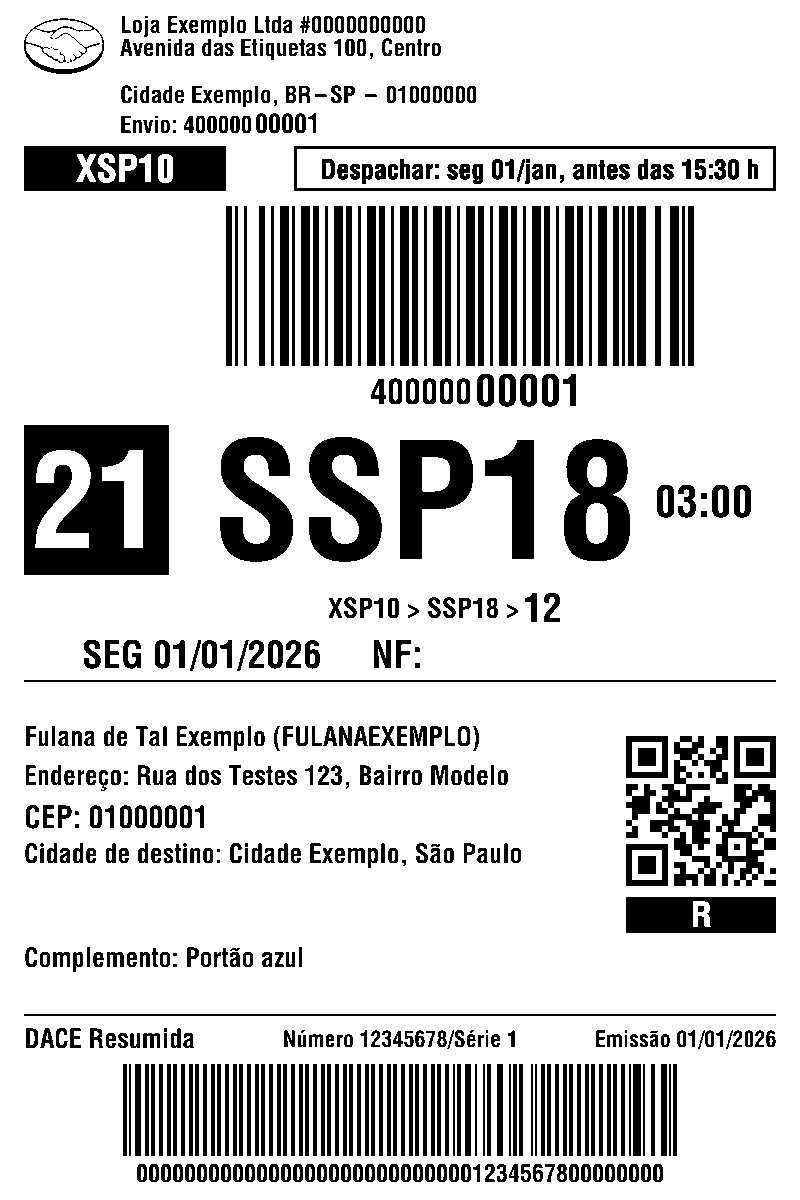
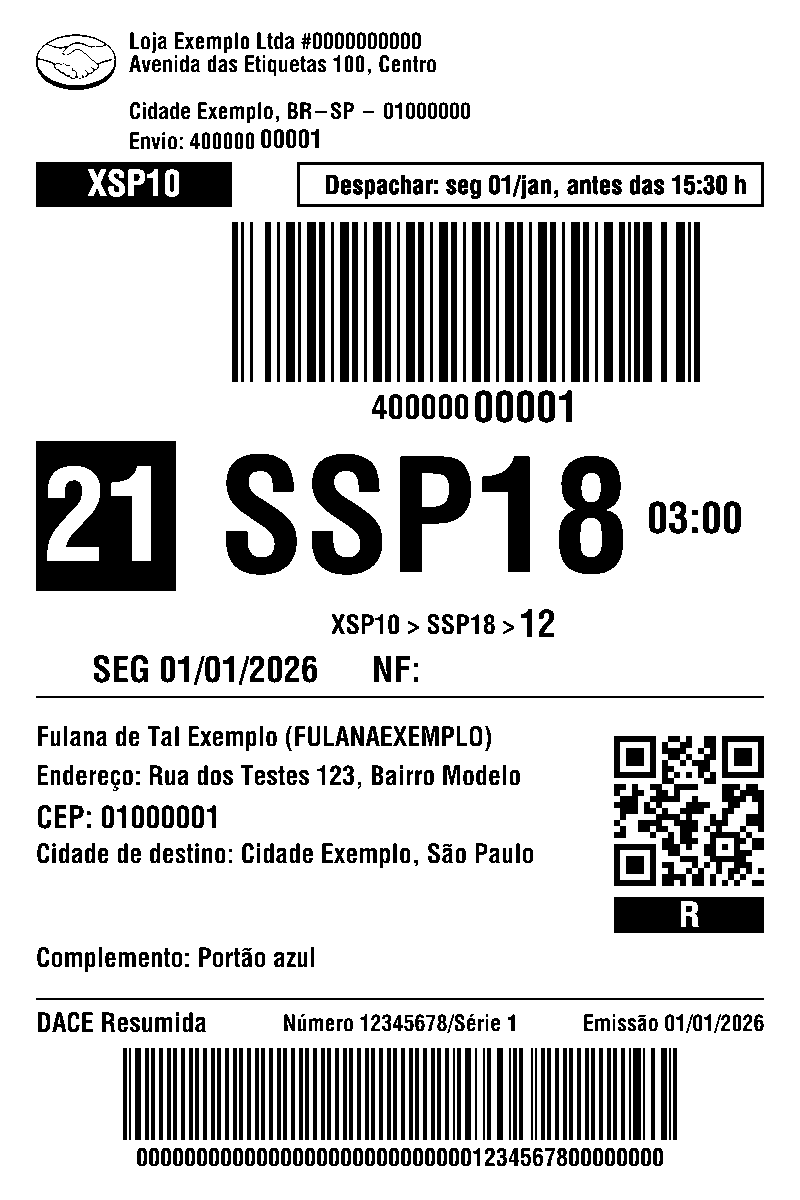
Sem duplicadas entre site e arquivo baixado, sinal de vida no Bluetooth e margens maiores
- o mesmo envio vindo do site e do arquivo em até 3 minutos imprime uma vez só
- conector reconecta sozinho se a ligação morrer parada e reenvia sem falhar o trabalho
- margens de 4,5 mm nas laterais e 4 mm em cima e embaixo

diff --git a/conector-bluetooth/main.swift b/conector-bluetooth/main.swift
@@ -37,6 +37,11 @@ final class Conector: NSObject, CBCentralManagerDelegate, CBPeripheralDelegate {
     var consultaQuando = Date.distantPast
     var jaRespondeu = false
     var contador = 0
+    var tentativas = 0
+    var canalInfo: CBCharacteristic?   // canal de leitura usado como sinal de vida
+    var pulsoPedido: Date?
+    var retomar = false                // reenviar o trabalho atual depois de reconectar
+    var jaIdentificou = false
     var consultasSemResposta = 0
     var inicioEnvio = Date()
 
@@ -96,12 +101,14 @@ final class Conector: NSObject, CBCentralManagerDelegate, CBPeripheralDelegate {
 
     func centralManager(_ c: CBCentralManager, didDisconnectPeripheral p: CBPeripheral, error: Error?) {
         registrar("a impressora desconectou; reconectando")
-        if let id = idTrabalho { confirmar(id, ok: false, erro: "a impressora desconectou no meio do envio") }
+        bomba?.invalidate(); bomba = nil
+        if let id = idTrabalho, !(retomar && tentativas < 2) { confirmar(id, ok: false, erro: "a impressora desconectou no meio do envio"); retomar = false }
         reiniciarBusca()
     }
 
     func reiniciarBusca() {
-        impressora = nil; canal = nil; ocupado = false; idTrabalho = nil; estado = nil; jaRespondeu = false
+        impressora = nil; canal = nil; canalInfo = nil; pulsoPedido = nil; estado = nil; jaRespondeu = false
+        if !retomar { ocupado = false; idTrabalho = nil }
         informar()
         DispatchQueue.main.asyncAfter(deadline: .now() + 2) { [weak self] in self?.procurar() }
     }
@@ -135,7 +142,15 @@ final class Conector: NSObject, CBCentralManagerDelegate, CBPeripheralDelegate {
             registrar("conectada em \(p.name ?? "impressora") (canal \(c.uuid.uuidString)); consultando o estado")
             consultarEstado()
             // identificação do módulo Bluetooth (modelo, versão), só para o registro
-            for ch in (p.services ?? []).flatMap({ $0.characteristics ?? [] }) where ch.properties.contains(.read) && ch.uuid.uuidString.hasPrefix("2A") { p.readValue(for: ch) }
+            let legiveis = (p.services ?? []).flatMap({ $0.characteristics ?? [] }).filter { $0.properties.contains(.read) && $0.uuid.uuidString.hasPrefix("2A") }
+            canalInfo = legiveis.first
+            if !jaIdentificou { for ch in legiveis { p.readValue(for: ch) }; DispatchQueue.main.asyncAfter(deadline: .now() + 3) { [weak self] in self?.jaIdentificou = true } }
+            // trabalho interrompido por ligação morta: manda de novo, do começo
+            if retomar, idTrabalho != nil {
+                retomar = false; tentativas += 1; posicao = 0; ultimoAvanco = Date(); inicioEnvio = Date()
+                registrar("reenviando a etiqueta depois de reconectar")
+                DispatchQueue.main.asyncAfter(deadline: .now() + 0.5) { [weak self] in self?.escrever() }
+            }
         } else {
             registrar("a impressora não mostrou canal de escrita")
             central.cancelPeripheralConnection(p)
@@ -151,7 +166,9 @@ final class Conector: NSObject, CBCentralManagerDelegate, CBPeripheralDelegate {
     }
 
     func peripheral(_ p: CBPeripheral, didUpdateValueFor ch: CBCharacteristic, error: Error?) {
+        pulsoPedido = nil // qualquer resposta prova que a ligação está viva
         guard let v = ch.value, let b = v.first else { return }
+        if ch.uuid.uuidString.hasPrefix("2A2") && jaIdentificou { return } // leitura de sinal de vida: não polui o registro
         if v.count != 1 || ch.uuid.uuidString.hasPrefix("2A2") {
             let texto = String(data: v, encoding: .utf8)?.trimmingCharacters(in: .controlCharacters) ?? ""
             registrar("resposta em \(ch.uuid.uuidString) (\(v.count) bytes): " + v.prefix(40).map { String(format: "%02x", $0) }.joined(separator: " ") + (texto.isEmpty ? "" : " = \(texto)"))
@@ -177,13 +194,25 @@ final class Conector: NSObject, CBCentralManagerDelegate, CBPeripheralDelegate {
 
     // ---------- trabalhos ----------
     func tique() {
-        // envio parado há mais de 20 s: desiste e reconecta
-        if ocupado, Date().timeIntervalSince(ultimoAvanco) > 20, let p = impressora {
-            registrar("envio travado; reiniciando a conexão")
+        // envio parado há mais de 4 s: a ligação morreu. Reconecta e manda de novo, sem falhar o trabalho
+        if idTrabalho != nil, Date().timeIntervalSince(ultimoAvanco) > 4, let p = impressora {
+            registrar("envio parado; reiniciando a conexão para mandar de novo")
+            retomar = true
             central.cancelPeripheralConnection(p)
             return
         }
         contador += 1
+        // sinal de vida a cada 10 s: depois de horas parada a ligação pode estar morta sem avisar,
+        // e a primeira etiqueta ficava esperando. Uma leitura sem resposta em 3 s força a reconexão.
+        if idTrabalho == nil, canal != nil, let p = impressora {
+            if let pedido = pulsoPedido, Date().timeIntervalSince(pedido) > 3 {
+                registrar("a impressora não respondeu ao sinal de vida; reconectando")
+                pulsoPedido = nil
+                central.cancelPeripheralConnection(p)
+                return
+            }
+            if contador % 10 == 0, pulsoPedido == nil, let ch = canalInfo { pulsoPedido = Date(); p.readValue(for: ch) }
+        }
         if contador % 3 == 0 { informar() }
         guard canal != nil, !ocupado else { return }
         if contador % 4 == 0 { consultarEstado() }
@@ -197,7 +226,7 @@ final class Conector: NSObject, CBCentralManagerDelegate, CBPeripheralDelegate {
                     self.ocupado = false
                     return
                 }
-                self.idTrabalho = id; self.dados = bytes; self.posicao = 0; self.ultimoAvanco = Date(); self.inicioEnvio = Date()
+                self.idTrabalho = id; self.dados = bytes; self.posicao = 0; self.ultimoAvanco = Date(); self.inicioEnvio = Date(); self.tentativas = 0
                 registrar("enviando etiqueta \(id) (\(bytes.count) bytes)")
                 self.escrever()
             }

diff --git a/src/impressora.js b/src/impressora.js
@@ -316,6 +316,7 @@ function cobertura(img) {
 const pedidos = []; // mais novo primeiro
 const imagens = new Map(); // jid -> imagem em memória
 const recentes = new Map(); // evita o mesmo envio duas vezes em sequência (clique duplo)
+const porNumero = new Map(); // número do envio -> por onde e quando chegou
 let seq = 0;
 
 function carimbo() {
@@ -377,6 +378,18 @@ async function receberZpl(zpl, { origem = 'manual', imprimir = cfg.imprimir === 
       continue;
     }
     recentes.set(hash, Date.now());
+    // O Mercado Livre manda a mesma etiqueta por dois caminhos ao mesmo tempo: direto para a ponte
+    // e como arquivo baixado. O texto não é idêntico (o site tira quebras de linha), então a
+    // comparação é pelo número do envio: o segundo que chegar em até 3 minutos, vindo de outro
+    // caminho, é ignorado.
+    const numero = (envio.match(/"id":"(\d+)"/) || [])[1];
+    const outro = numero && porNumero.get(numero);
+    if (outro && outro.origem !== origem && Date.now() - outro.quando < 180000) {
+      log(`envio ${numero} já veio por ${outro.origem}; ignorada a cópia que chegou por ${origem}`);
+      feitos.ignorados = (feitos.ignorados || 0) + 1;
+      continue;
+    }
+    if (numero) porNumero.set(numero, { origem, quando: Date.now() });
     const etiquetas = await montar(envio, modo);
     const id = etiquetas[0].id || `sem-id-${n + 1}`;
     if (cfg.guardarHistorico) fs.writeFileSync(path.join(RAIZ, 'recebidos', `${carimbo()}-${id}.zpl`), envio);
@@ -454,6 +467,10 @@ async function varrerDownloads(inicial) {
             // o arquivo só é apagado depois que TODAS as etiquetas dele imprimirem (ver apagarSeImprimiu)
             for (const p of feitos) p.arquivo = caminho;
             apagarSeImprimiu(caminho);
+            // arquivo só com cópias do que já veio pelo site: não tem mais serventia
+            if (!feitos.length && feitos.ignorados && cfg.limparDownloads) {
+              try { fs.rmSync(caminho, { force: true }); log(`arquivo apagado (cópia do que já foi impresso): ${nome}`); } catch (_) { /* fica */ }
+            }
           }
         } catch (e) { log(`ERRO ao ler ${nome}: ${e.message}`); }
       }

diff --git a/src/etiqueta.js b/src/etiqueta.js
@@ -9,8 +9,8 @@ const A = 1200;         // altura da etiqueta em pontos (150 mm)
 const ENVIO_L = 832;    // o ZPL do ML passa um pouco de 800; renderiza com folga
 const ENVIO_A = 1218;
 const LINHAS_MAX = 1198; // 150 mm a 203 dpi
-const MX = 24;           // margem lateral de segurança (3 mm de cada lado)
-const MY = 16;           // margem de cima e de baixo (2 mm)
+const MX = 36;           // margem lateral de segurança (4,5 mm de cada lado)
+const MY = 32;           // margem de cima e de baixo (4 mm)
 const UTIL = L - 2 * MX; // largura útil, centralizada
 
 // ---------- utilidades de ZPL ----------
